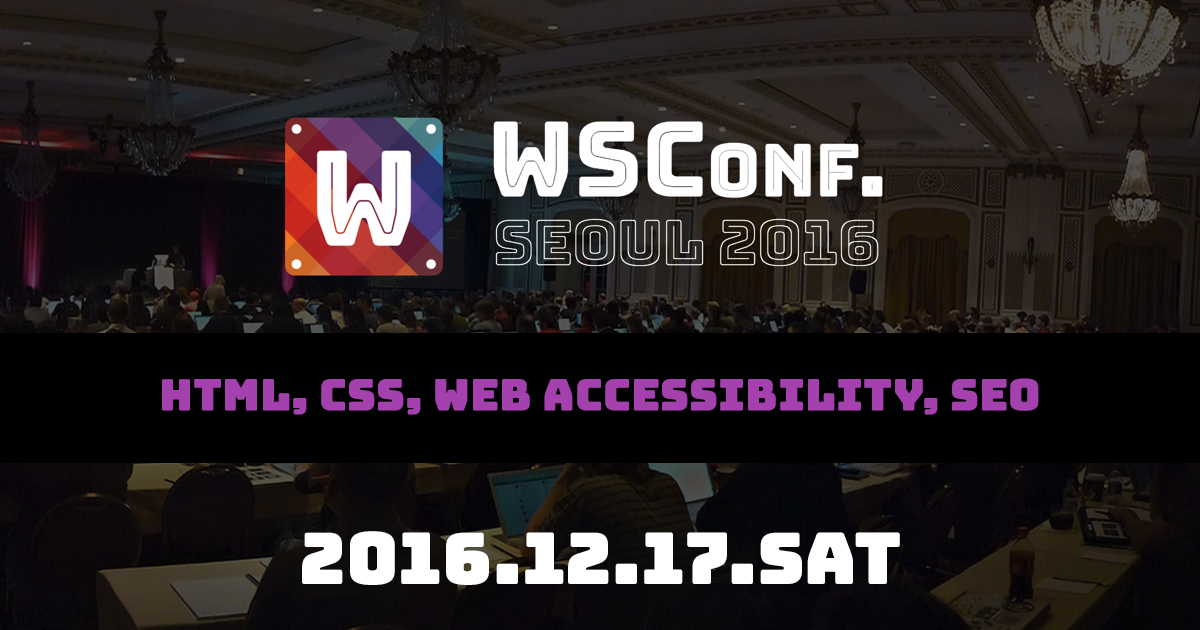
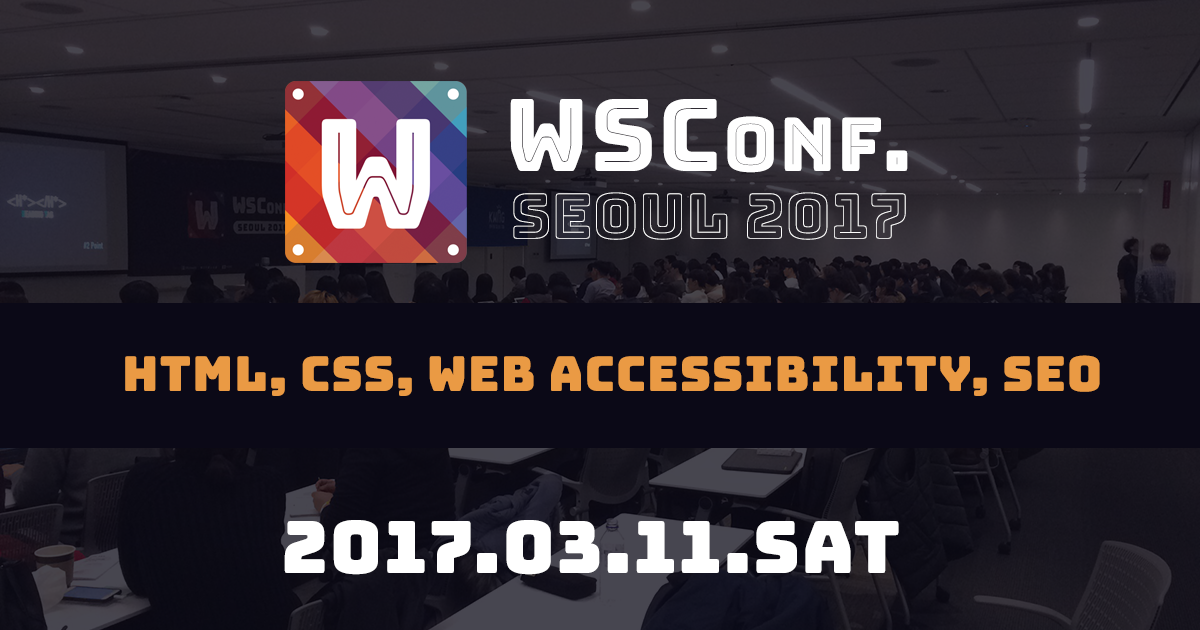
2013.03.앵콜 준비

diff --git a/index.htm b/index.htm
@@ -5,18 +5,18 @@
     <meta charset="UTF-8">
     <meta http-equiv="X-UA-Compatible" content="IE=edge">
     <meta name="viewport" content="width=device-width,initial-scale=1">
-    <title>WSConf. Seoul 2016</title>
+    <title>WSConf. Seoul 2017</title>
     <link rel="shortcut icon" href="//wsconf.org/favicon.ico">
-    <meta name="description" content="WSConf.는 2016년 처음으로 개최되는 HTML, CSS, Web Accessibility, SEO 등을 다루는 컨퍼런스입니다. 웹을 이해하고, 웹을 만들고, 웹의 미래를 고민하고 있는 여러분들을 초대합니다.">
+    <meta name="description" content="WSConf.는 2016년 처음으로 개최된 HTML, CSS, Web Accessibility, SEO 등을 다루는 컨퍼런스입니다. 웹을 이해하고, 웹을 만들고, 웹의 미래를 고민하고 있는 여러분들을 초대합니다.">
     <meta name="keywords" content="WSConf, Conference, 웹 표준, 웹 접근성, HTML, CSS, Web Accessibility, SEO">
     <meta property="og:type" content="website">
     <meta property="og:site_name" content="WSConf.(Web Standards Conference)">
     <meta property="og:title" content="WSConf.(Web Standards Conference)">
     <meta property="og:image" content="//wsconf.org/img/wsconf_open_graph.png">
-    <meta property="og:description" content="WSConf.는 2016년 처음으로 개최되는 HTML, CSS, Web Accessibility, SEO 등을 다루는 컨퍼런스입니다. 웹을 이해하고, 웹을 만들고, 웹의 미래를 고민하고 있는 여러분들을 초대합니다.">
+    <meta property="og:description" content="WSConf.는 2016년 처음으로 개최된 HTML, CSS, Web Accessibility, SEO 등을 다루는 컨퍼런스입니다. 웹을 이해하고, 웹을 만들고, 웹의 미래를 고민하고 있는 여러분들을 초대합니다.">
     <meta name="twitter:site" content="@wsconf">
     <meta name="twitter:title" content="WSConf.(Web Standards Conference)">
-    <meta name="twitter:description" content="WSConf.는 2016년 처음으로 개최되는 HTML, CSS, Web Accessibility, SEO 등을 다루는 컨퍼런스입니다. 웹을 이해하고, 웹을 만들고, 웹의 미래를 고민하고 있는 여러분들을 초대합니다.">
+    <meta name="twitter:description" content="WSConf.는 2016년 처음으로 개최된 HTML, CSS, Web Accessibility, SEO 등을 다루는 컨퍼런스입니다. 웹을 이해하고, 웹을 만들고, 웹의 미래를 고민하고 있는 여러분들을 초대합니다.">
     <meta name="twitter:image" content="//wsconf.org/img/wsconf_open_graph.png">
     <link href="//fonts.googleapis.com/css?family=Bungee:400normal|Bungee+Inline:400normal|Bungee+Outline:400normal|Roboto+Slab" rel="stylesheet">
     <link rel="stylesheet" href="https://cdnjs.cloudflare.com/ajax/libs/remodal/1.1.0/remodal.min.css">
@@ -33,8 +33,8 @@
         <div class="inner">
             <p class="header_title_logo"><img src="img/wsconf_logo.png" alt="WSConf."></p>
             <h1 class="header_title"><abbr title="Web Standards Conference">WSC<span>onf.</span></abbr></h1>
-            <p class="header_title_desc">Seoul 2016</p>
-            <p class="header_subject">WSConf.는 2016년 처음으로 개최되는 HTML, CSS, Web Accessibility, SEO 등을 다루는 컨퍼런스입니다.
+            <p class="header_title_desc">Seoul 2017</p>
+            <p class="header_subject">WSConf.는 2016년 처음으로 개최된 HTML, CSS, Web Accessibility, SEO 등을 다루는 컨퍼런스입니다.
                 <br />
                 <br />웹을 이해하고, 웹을 만들고, 웹의 미래를 고민하고 있는 여러분들을 초대합니다.</p>
         </div>
@@ -73,7 +73,7 @@
             <div class="inner">
                 <h1 class="section_title">When</h1>
                 <div class="section_description">
-                    <p class="section_when_item">2016.12.17.토요일</p>
+                    <p class="section_when_item">2017.03.11.토요일</p>
                     <p class="section_when_item">10:00~18:00</p>
                 </div>
             </div>
@@ -122,18 +122,17 @@
                                 <i class="icon">SEO</i>
                             </a>
                         </li>
-                        <li class="section_schedule_timetable">
+                        <!-- <li class="section_schedule_timetable">
                             <a href="#modal-4" class="area">
                                 <span class="time">12:00~12:10</span>
                                 <h2 class="subject">Front-End 개발자와 Microsoft MVP Program <span class="speakers">#장성민 @SK 플래닛 #이소영 #한국 Microsoft </span></h2>
                                 <i class="icon">MVP</i>
                             </a>
-                        </li>
+                        </li> -->
                         <li class="section_schedule_timetable">
-                            <a href="#modal-5" class="area">
-                                <span class="time">12:10~12:30</span>
-                                <h2 class="subject">Front-End 개발자 Azure 활용 <span class="speakers">#김영재 #바풀</span></h2>
-                                <i class="icon">Azure</i>
+                            <a href="#" class="area">
+                                <span class="time">12:00~12:30</span>
+                                <h2 class="subject">미정 <span class="speakers"></span></h2>
                             </a>
                         </li>
                         <li class="section_schedule_timetable breaktime">
@@ -362,7 +361,7 @@
                                 </div>
                             </div>
                         </li>
-                        <li>
+                        <!-- <li>
                             <a href="#modal-5" class="speakers">
                                 <figure class="speakers_info">
                                     <span class="speakers_info_photo"><img src="img/speakers_kyj.jpg" alt="김영재"></span>
@@ -396,7 +395,7 @@
                                     </ul>
                                 </div>
                             </div>
-                        </li>
+                        </li> -->
                         <li>
                             <a href="#modal-6" class="speakers">
                                 <figure class="speakers_info">
@@ -700,9 +699,6 @@
                         <li>
                             <a href="//cssdesign.kr/"><img src="img/sponsors_cdk.png" alt="CSS Design Korea"></a>
                         </li>
-                        <li>
-                            <a href="//nia.or.kr/"><img src="img/sponsors_nia.png" alt="한국정보화진흥원"></a>
-                        </li>
                     </ul>
                     <h2>주최</h2>
                     <ul class="section_sponsors_item">
@@ -717,21 +713,22 @@
             <div class="inner">
                 <h1 class="section_title">Tickets</h1>
                 <div class="section_description">
-                    <p class="section_description_subject">WSConf.는 <strong>유료(10,000원)</strong>입니다.
+                    <p class="section_description_subject">WSConf.는 <strong>유료(가격 미정)</strong>입니다.
                         <br />
-                        <!-- <span>아래 접수버튼을 통해 접수한 후, 계좌로 입금해주셔야 접수등록이 완료됩니다.</span> --></p>
-                    <p class="section_tickets_bank">접수 현황은 아래 버튼을 클릭하시면 보실 수 있습니다.
-                        <!-- 우리은행 1002-742-375185 (예금주 : 장성민) -->
+                        <span>아래 접수버튼을 통해 접수한 후, 계좌로 입금해주셔야 접수등록이 완료됩니다.</span></p>
+                    <p class="section_tickets_bank"><!-- 접수 현황은 아래 버튼을 클릭하시면 보실 수 있습니다. -->
+                        우리은행 1002-742-375185 (예금주 : 장성민)
                     </p>
+                    <p class="section_tickets_button"><a href="#">Coming Soon</a></p>
                     <!-- <p class="section_tickets_button"><a href="http://onoffmix.com/event/85474">Register Now</a></p> -->
                     <!-- Sold Out -->
-                    <p class="section_tickets_button soldout"><a href="http://onoffmix.com/event/85474">Sold Out</a></p>
+                    <!-- <p class="section_tickets_button soldout"><a href="http://onoffmix.com/event/85474">Sold Out</a></p> -->
                     <dl class="section_tickets_caution">
                         <dt>접수시 <strong>안내</strong></dt>
                         <dd><i></i>주차권은 제공되지 않습니다. 반드시 대중교통을 이용해 주시기 바랍니다.</dd>
                         <dd><i></i>휴식 시간에는 다과와 음료가 제공될 예정입니다.</dd>
                         <dd><i></i>세금계산서는 발행되지 않습니다.</dd>
-                        <dd><i></i><strong>환불은 12월 12일(월) 오전 10시 전까지만 가능합니다. 이후는 환불해드릴 수 없습니다. <br />(행사 진행 비용을 위함이니 이해해주시기 바랍니다. 전화하셔서 환불해달라고 하시면 많이 당혹스럽습니다 ㅜㅜ. 좋은 행사에 기부하신걸로 생각해주셨으면 합니다.)</strong> </dd>
+                        <dd><i></i><strong>환불은 3월 7일(화) 오전 10시 전까지만 가능합니다. 이후는 환불해드릴 수 없습니다. <br />(행사 진행 비용을 위함이니 이해해주시기 바랍니다. 전화하셔서 환불해달라고 하시면 많이 당혹스럽습니다 ㅜㅜ. 좋은 행사에 기부하신걸로 생각해주셨으면 합니다.)</strong> </dd>
                     </dl>
                 </div>
             </div>
